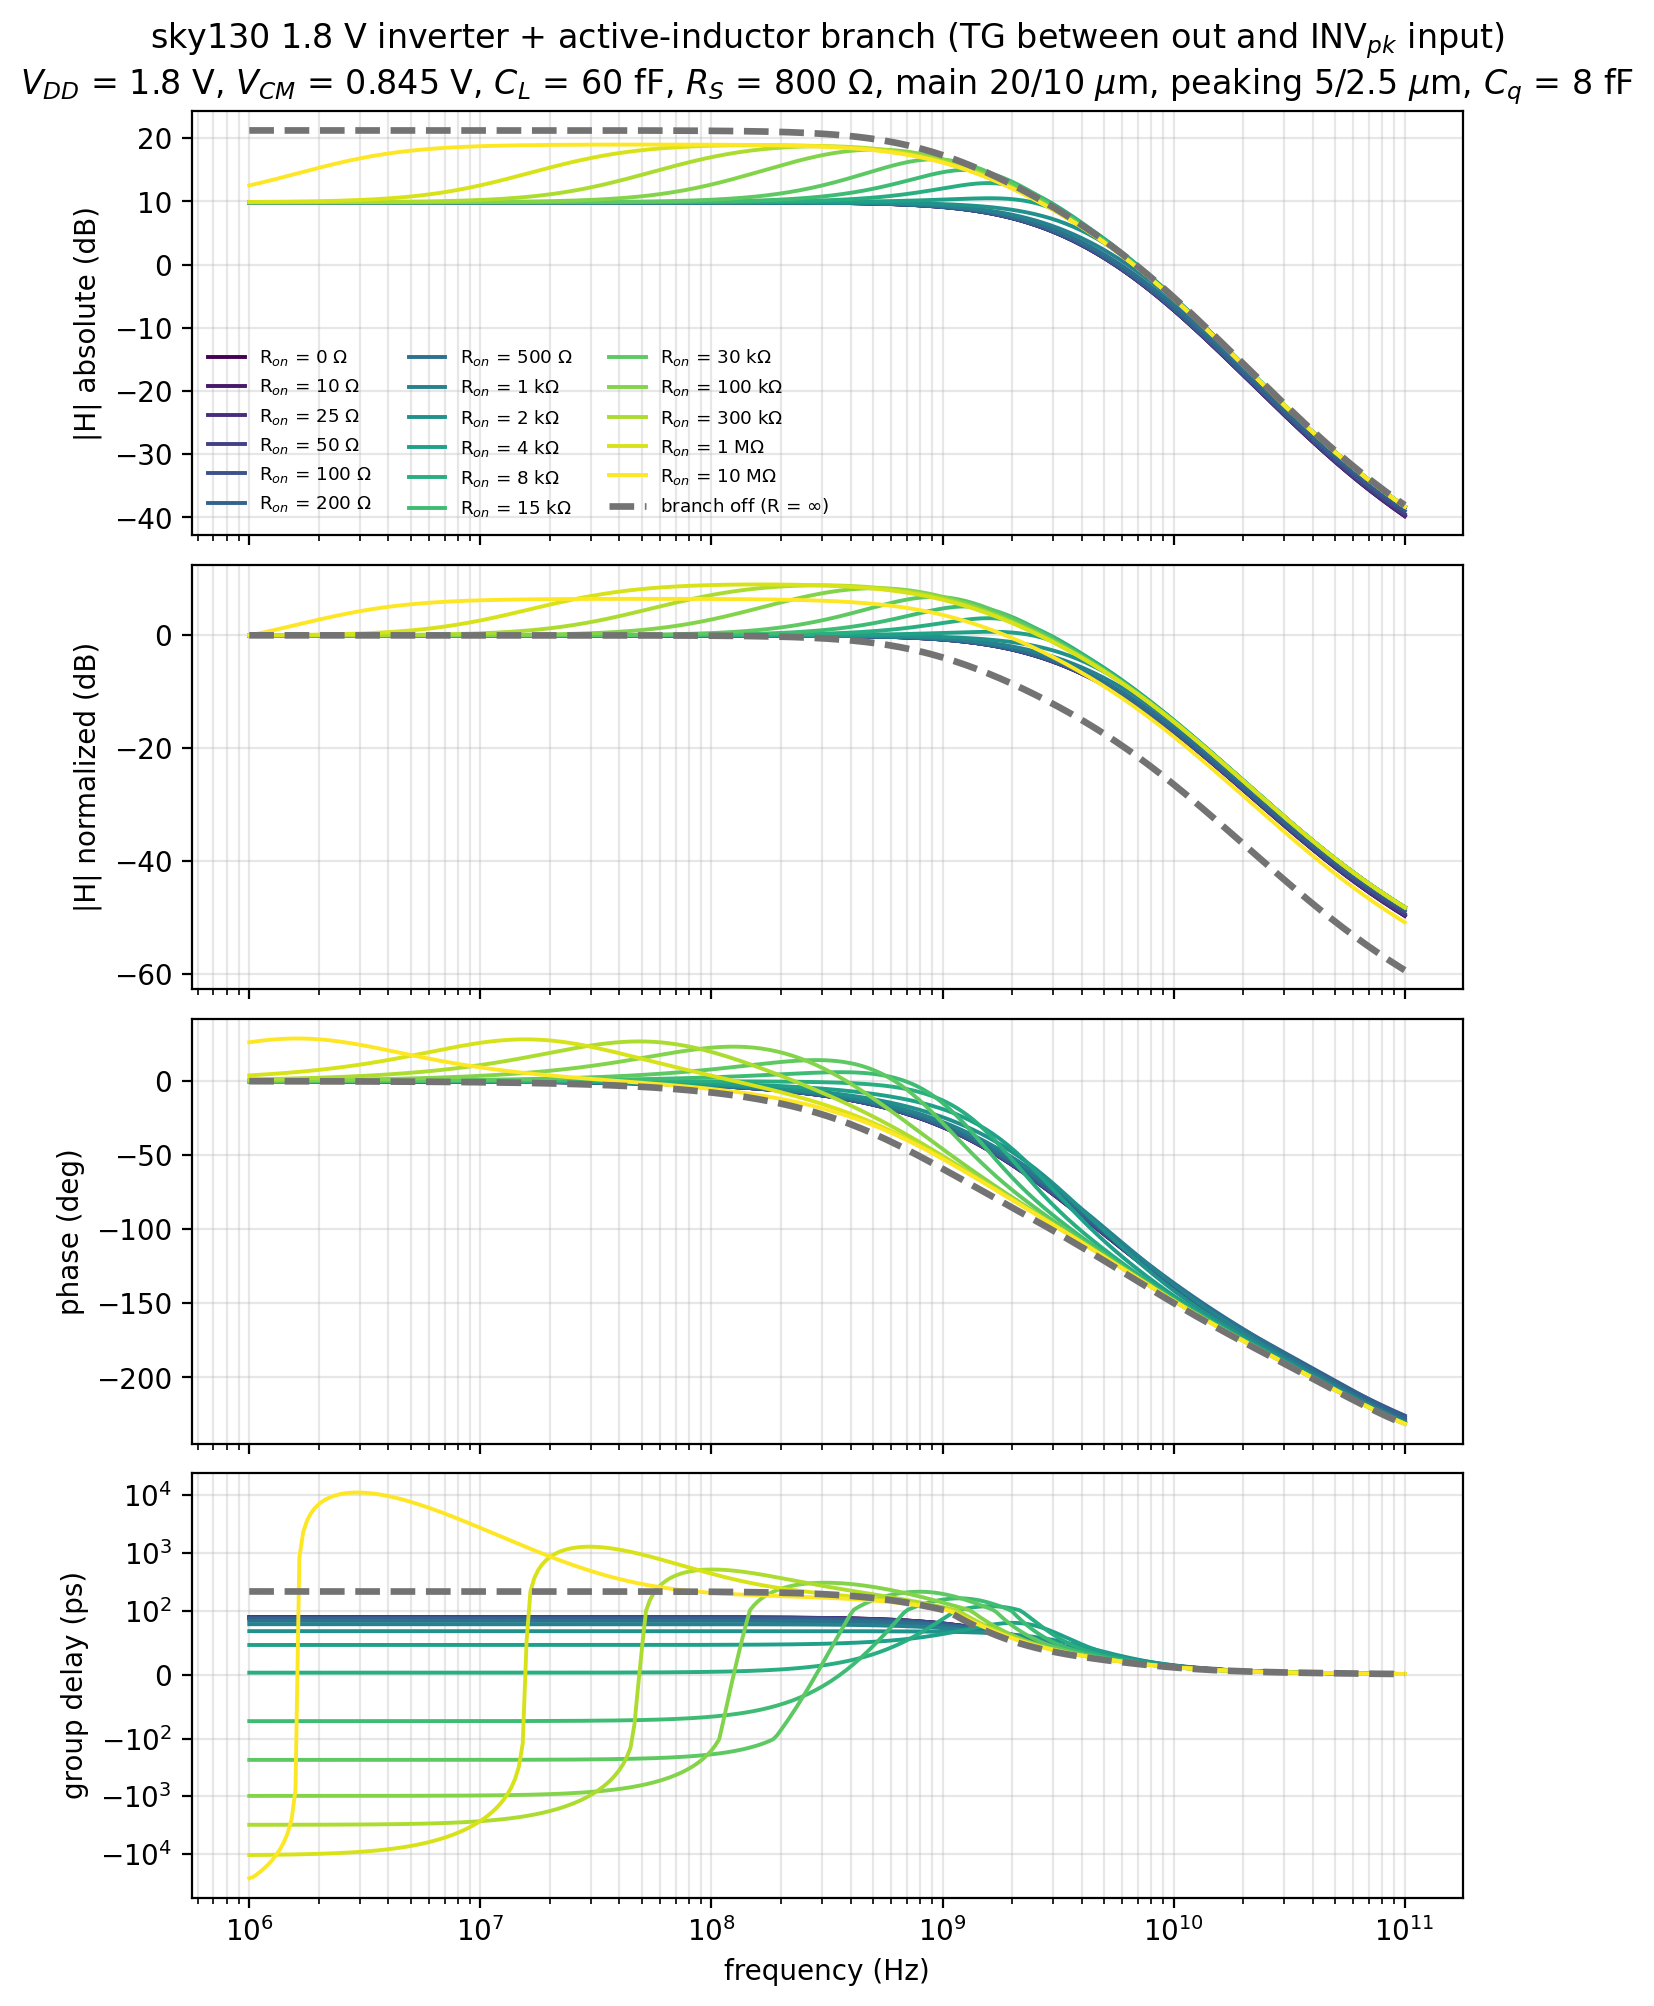
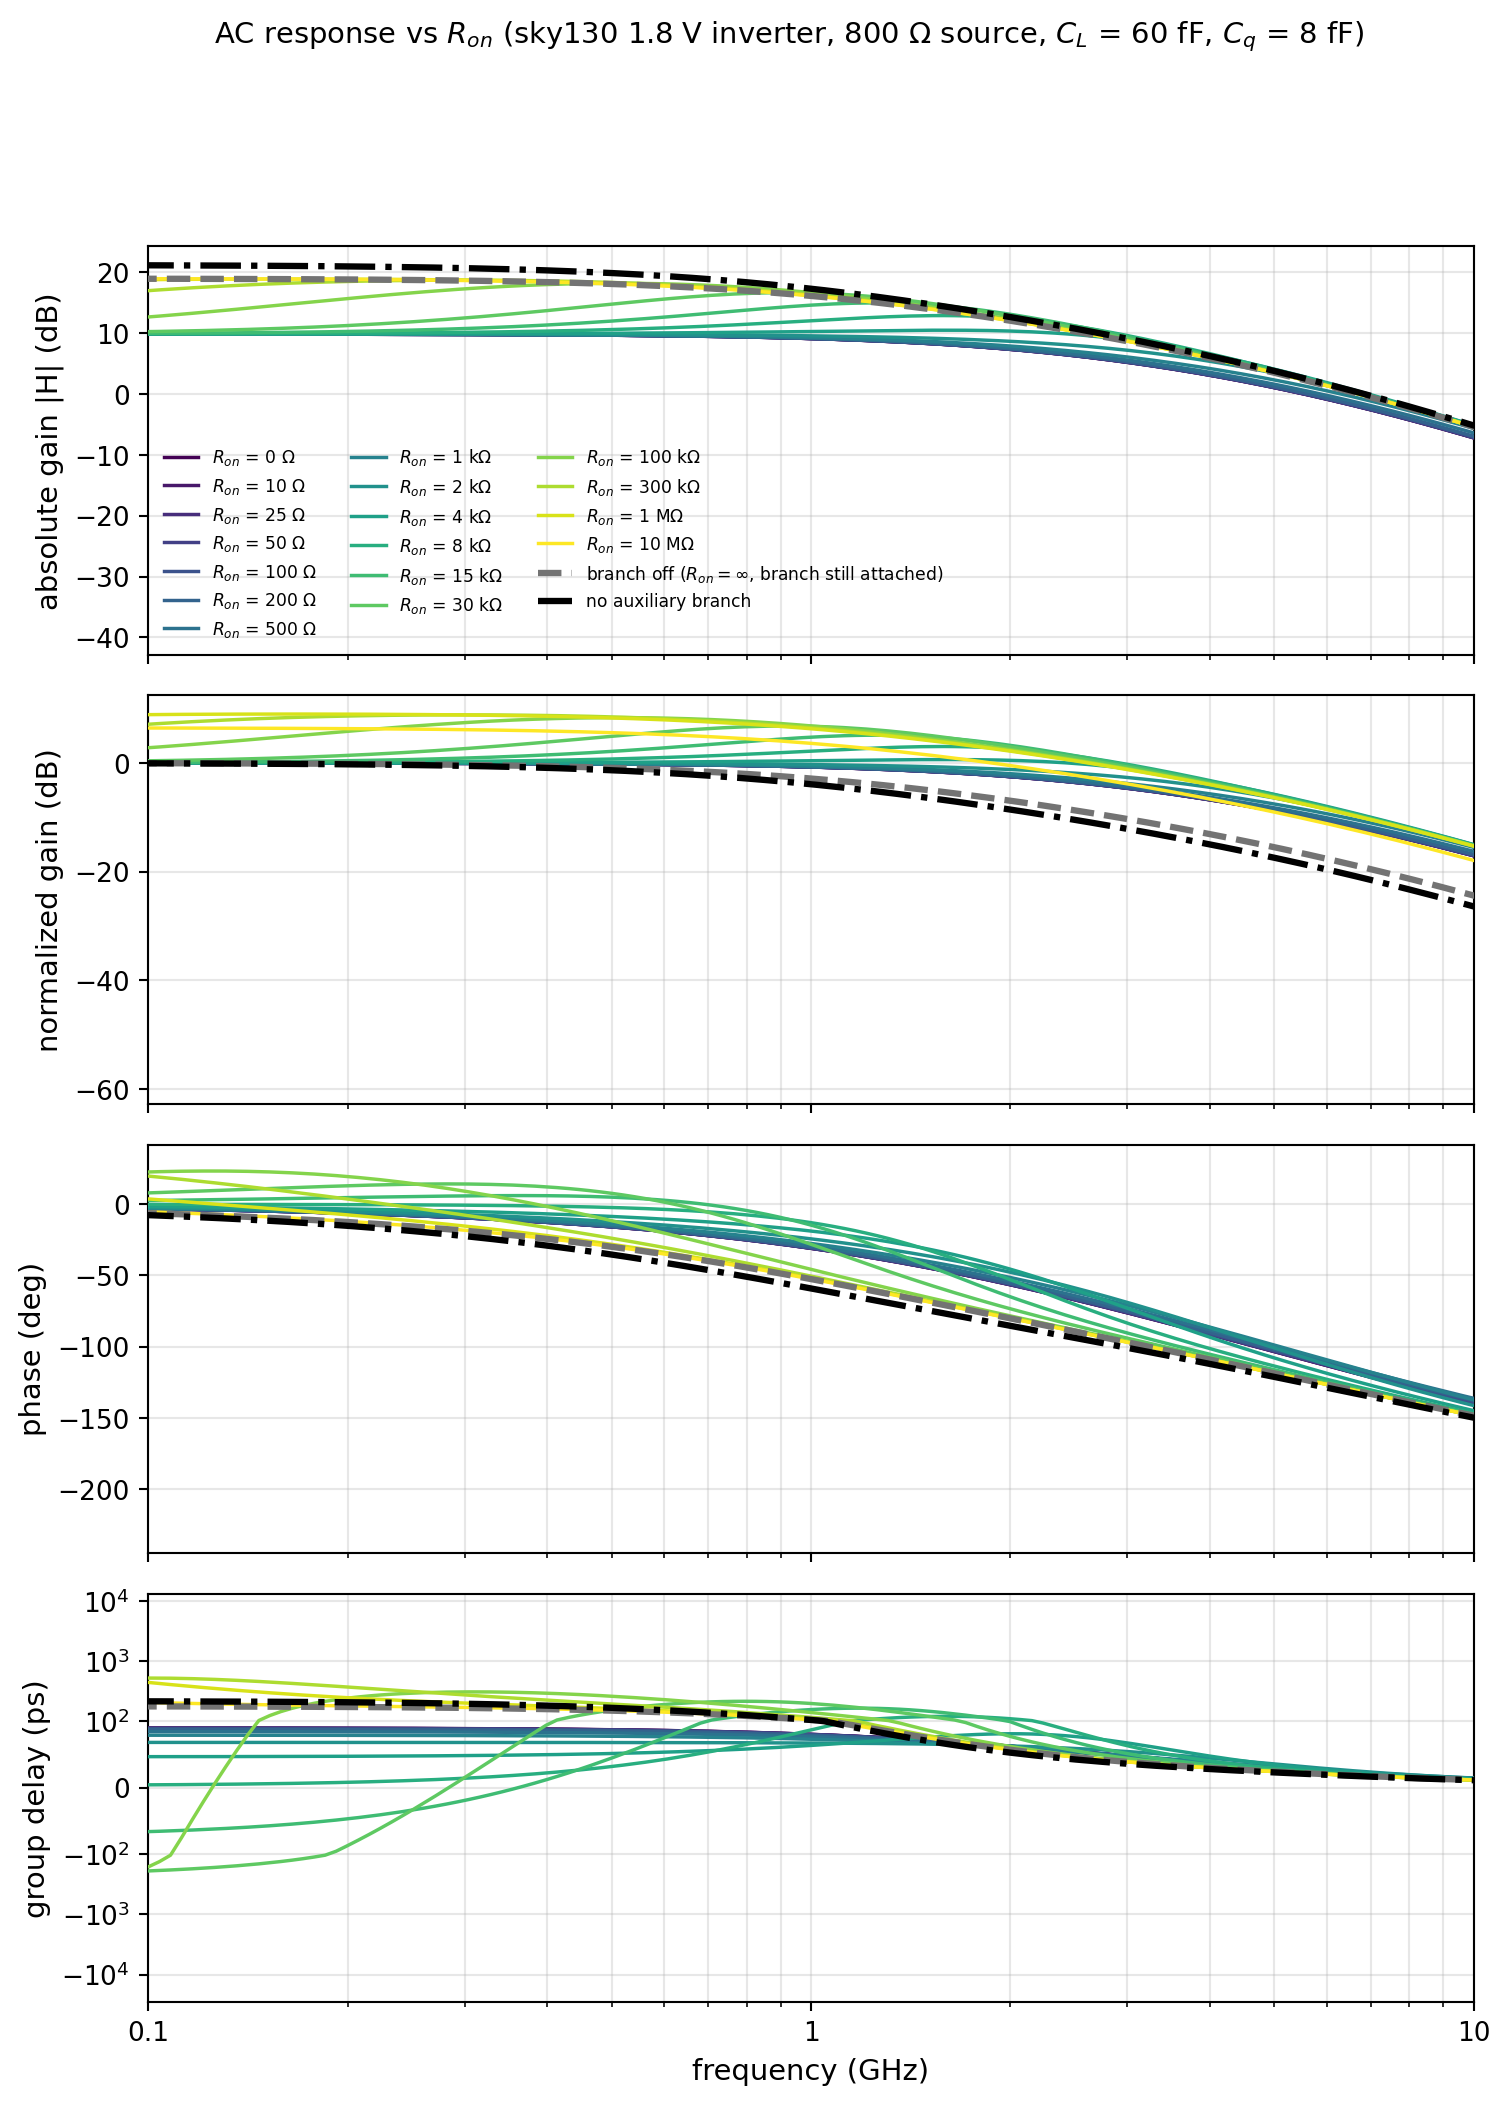
Add branch-off vs no-branch baselines to the active-inductor post

Changed region(s): [[0.0, 0.0, 0.9967, 0.989], [0.9344, 0.0309, 0.9967, 0.0618], [0.8721, 0.0927, 0.9032, 0.1236]]

diff --git a/AnalogIC/Active Inductor Peaking in a CMOS Inverter - Analysis and Verification in sky130.md b/AnalogIC/Active Inductor Peaking in a CMOS Inverter - Analysis and Verification in sky130.md
@@ -138,9 +138,11 @@ $$\bar{t}=\frac{\int t\,h(t)\,dt}{\int h(t)\,dt}=\tau_g(0)$$
 
 ### 3.1 群延时为什么会变成负的
 
-<div class="center"><img src="https://imagebank-0.oss-cn-beijing.aliyuncs.com/VS-PicGo/2026-11-18-23-40-52_active-inductor-peaking_ac_vs_ron.png"/></div>
+<div class="center"><img src="https://imagebank-0.oss-cn-beijing.aliyuncs.com/VS-PicGo/2026-11-22-02-59-51_active-inductor-peaking_ac_vs_ron.png"/></div>
 
-> 图 3. 扫 $R_{on}$ 的完整 AC 响应 (800 Ω 源)。四张图自上而下: 绝对幅度、归一化幅度、相位、群延时。$R_{on}$ 从 0 Ω 一路扫到 10 MΩ, 灰色虚线为支路断开 ($R=\infty$) 的对照。
+> 图 3. 扫 $R_{on}$ 的完整 AC 响应 (800 Ω 源)。四张图自上而下: 绝对幅度、归一化幅度、相位、群延时。$R_{on}$ 从 0 Ω 一路扫到 10 MΩ; 两条对照曲线分别是灰色虚线的支路断开 ($R_{on}=1$ TΩ, 开关断开但支路仍挂在输出上) 和黑色点划线的无辅助支路 (整条支路拿掉)。
+
+图里最容易被忽略的是这两条对照曲线之间的差。开关断开时 $R_{on}$ 里没有电流, 环路本该彻底断掉, 可辅助反相器的栅漏电容 $C_{gd}$ 还挂在输出上, 它把输出信号按约 0.15 的分压送到栅极, 再经 $g_{m2}$ 变成反馈电流。所以低频增益只回到 19.0 dB, 比真正的开环 21.2 dB 还差 2.2 dB, 带宽也停在 1.05 GHz, 而无辅助支路是 21.2 dB / 0.83 GHz。这条前馈随频率变强, 两条曲线的差距从 0.1 GHz 处的 2.2 dB 一路收到 20 GHz 处的 0.2 dB, 于是"断开"的带宽反而比"没有支路"更高。把 $C_q$ 加大可以把这条前馈多分掉一点 (0 → 64 fF 时增益从 18.4 回到 19.6 dB), 但单靠 $C_q$ 回不到开环。
 
 第四张图里, $R_{on}$ 越大低频群延时越负, 到后面能到 −10⁴ ps 量级 (纵轴是对数)。负群延时不是超光速, 它是窄带效应: 零点给相位加了一个正斜率, 使 $d\varphi/d\omega>0$; 对一个窄带调制的信号, 包络峰确实可以比输入更早出现 —— 峰化把低频成分延迟得久、高频成分延迟得短, 叠出来的峰自然前移。但对只看过零点的时钟信号, 这个负值没有意义, 过零点永远往后走, 所以 $t_{pd}>0$。
 
@@ -174,6 +176,10 @@ $$H(j\omega)\approx|H(\omega_0)|e^{j\varphi_0}\cdot e^{-j\tau_g(\omega-\omega_0)
 | PAM4 2.5 GBd | 2 kΩ | 873 mV | — | +1 % | 0.79 | 248 mV |
 | PAM4 2.5 GBd | 4 kΩ | 993 mV | — | +7 % | 0.86 | 304 mV |
 | PAM4 2.5 GBd | 8 kΩ | 1 079 mV | — | +18 % | 0.92 | 348 mV |
+| NRZ 5 GBd | 支路断开 ($R_{on}=\infty$) | 1 317 mV | 30.0 ps | +0.6 % | — | — |
+| NRZ 5 GBd | 无辅助支路 | 1 624 mV | 22.6 ps | +6.2 % | — | — |
+| PAM4 2.5 GBd | 支路断开 ($R_{on}=\infty$) | 1 120 mV | — | +5.3 % | 0.67 | 307 mV |
+| PAM4 2.5 GBd | 无辅助支路 | 1 612 mV | — | +3.7 % | 0.88 | 513 mV |
 
 表里最容易被误读的是 8 kΩ 那一行: $R_{on}$ = 8 kΩ 的眼高 1 152 mV 是三档里最大的, 但这其实是假象。它的输出电平被振铃撑到 0.27 / 1.28 V, 已经超出静态轨, 6σ 眼高只剩 663 mV, ISI 裕度从 41.9 dB 掉到 18.8 dB。只盯"眼高"这一项, 在这里一定会踩坑。
 
@@ -182,6 +188,8 @@ $$H(j\omega)\approx|H(\omega_0)|e^{j\varphi_0}\cdot e^{-j\tau_g(\omega-\omega_0)
 $$\mathrm{RLM}=\frac{3\min(\Delta_i)}{\Delta_1+\Delta_2+\Delta_3}$$
 
 本文这组数据换成 RLM 口径大约是 0.84 / 0.93 / 0.96。RL 每掉 10 %, 最差那只眼的等效 SNR 就掉 1 dB, 而 PAM4 的误码是由最差眼单独决定的。
+
+表里最后四行是两种"支路不在"的对照。开关断开时输出电平仍被自偏置的辅助反相器钳在 1.63 V, 摆幅没放开, 带宽却只剩 1.26 GHz, NRZ 的 DJ 因此涨到 30 ps; PAM4 的电平比更掉到 0.67, 比任何有限 $R_{on}$ 都差。把整条支路拿掉, 摆幅才回到 1 624 mV, PAM4 的电平比回到 0.88。关掉开关并不等于拿掉支路。
 
 ### 4.2 幅度特性 AM-AM / AM-PM
 

diff --git a/AnalogIC/Active Inductor Peaking in a CMOS Inverter - Analysis and Verification in sky130 (local preview).md b/AnalogIC/Active Inductor Peaking in a CMOS Inverter - Analysis and Verification in sky130 (local preview).md
@@ -142,7 +142,9 @@ $$\bar{t}=\frac{\int t\,h(t)\,dt}{\int h(t)\,dt}=\tau_g(0)$$
 
 <div class="center"><img src="assets/active-inductor-peaking/ac_vs_ron.png"/></div>
 
-> 图 3. 扫 $R_{on}$ 的完整 AC 响应 (800 Ω 源)。四张图自上而下: 绝对幅度、归一化幅度、相位、群延时。$R_{on}$ 从 0 Ω 一路扫到 10 MΩ, 灰色虚线为支路断开 ($R=\infty$) 的对照。
+> 图 3. 扫 $R_{on}$ 的完整 AC 响应 (800 Ω 源)。四张图自上而下: 绝对幅度、归一化幅度、相位、群延时。$R_{on}$ 从 0 Ω 一路扫到 10 MΩ; 两条对照曲线分别是灰色虚线的支路断开 ($R_{on}=1$ TΩ, 开关断开但支路仍挂在输出上) 和黑色点划线的无辅助支路 (整条支路拿掉)。
+
+图里最容易被忽略的是这两条对照曲线之间的差。开关断开时 $R_{on}$ 里没有电流, 环路本该彻底断掉, 可辅助反相器的栅漏电容 $C_{gd}$ 还挂在输出上, 它把输出信号按约 0.15 的分压送到栅极, 再经 $g_{m2}$ 变成反馈电流。所以低频增益只回到 19.0 dB, 比真正的开环 21.2 dB 还差 2.2 dB, 带宽也停在 1.05 GHz, 而无辅助支路是 21.2 dB / 0.83 GHz。这条前馈随频率变强, 两条曲线的差距从 0.1 GHz 处的 2.2 dB 一路收到 20 GHz 处的 0.2 dB, 于是"断开"的带宽反而比"没有支路"更高。把 $C_q$ 加大可以把这条前馈多分掉一点 (0 → 64 fF 时增益从 18.4 回到 19.6 dB), 但单靠 $C_q$ 回不到开环。
 
 第四张图里, $R_{on}$ 越大低频群延时越负, 到后面能到 −10⁴ ps 量级 (纵轴是对数)。负群延时不是超光速, 它是窄带效应: 零点给相位加了一个正斜率, 使 $d\varphi/d\omega>0$; 对一个窄带调制的信号, 包络峰确实可以比输入更早出现 —— 峰化把低频成分延迟得久、高频成分延迟得短, 叠出来的峰自然前移。但对只看过零点的时钟信号, 这个负值没有意义, 过零点永远往后走, 所以 $t_{pd}>0$。
 
@@ -176,6 +178,10 @@ $$H(j\omega)\approx|H(\omega_0)|e^{j\varphi_0}\cdot e^{-j\tau_g(\omega-\omega_0)
 | PAM4 2.5 GBd | 2 kΩ | 873 mV | — | +1 % | 0.79 | 248 mV |
 | PAM4 2.5 GBd | 4 kΩ | 993 mV | — | +7 % | 0.86 | 304 mV |
 | PAM4 2.5 GBd | 8 kΩ | 1 079 mV | — | +18 % | 0.92 | 348 mV |
+| NRZ 5 GBd | 支路断开 ($R_{on}=\infty$) | 1 317 mV | 30.0 ps | +0.6 % | — | — |
+| NRZ 5 GBd | 无辅助支路 | 1 624 mV | 22.6 ps | +6.2 % | — | — |
+| PAM4 2.5 GBd | 支路断开 ($R_{on}=\infty$) | 1 120 mV | — | +5.3 % | 0.67 | 307 mV |
+| PAM4 2.5 GBd | 无辅助支路 | 1 612 mV | — | +3.7 % | 0.88 | 513 mV |
 
 表里最容易被误读的是 8 kΩ 那一行: $R_{on}$ = 8 kΩ 的眼高 1 152 mV 是三档里最大的, 但这其实是假象。它的输出电平被振铃撑到 0.27 / 1.28 V, 已经超出静态轨, 6σ 眼高只剩 663 mV, ISI 裕度从 41.9 dB 掉到 18.8 dB。只盯"眼高"这一项, 在这里一定会踩坑。
 
@@ -184,6 +190,8 @@ $$H(j\omega)\approx|H(\omega_0)|e^{j\varphi_0}\cdot e^{-j\tau_g(\omega-\omega_0)
 $$\mathrm{RLM}=\frac{3\min(\Delta_i)}{\Delta_1+\Delta_2+\Delta_3}$$
 
 本文这组数据换成 RLM 口径大约是 0.84 / 0.93 / 0.96。RL 每掉 10 %, 最差那只眼的等效 SNR 就掉 1 dB, 而 PAM4 的误码是由最差眼单独决定的。
+
+表里最后四行是两种"支路不在"的对照。开关断开时输出电平仍被自偏置的辅助反相器钳在 1.63 V, 摆幅没放开, 带宽却只剩 1.26 GHz, NRZ 的 DJ 因此涨到 30 ps; PAM4 的电平比更掉到 0.67, 比任何有限 $R_{on}$ 都差。把整条支路拿掉, 摆幅才回到 1 624 mV, PAM4 的电平比回到 0.88。关掉开关并不等于拿掉支路。
 
 ### 4.2 幅度特性 AM-AM / AM-PM
 
